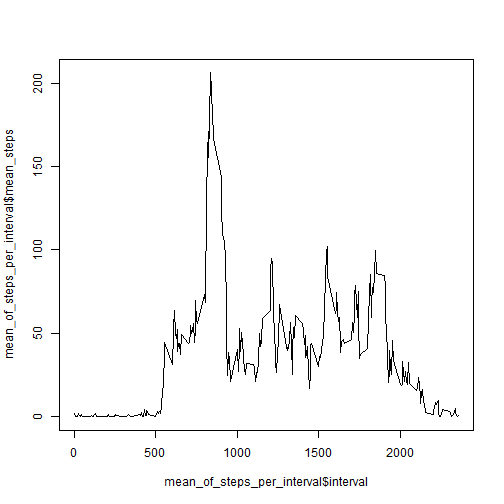
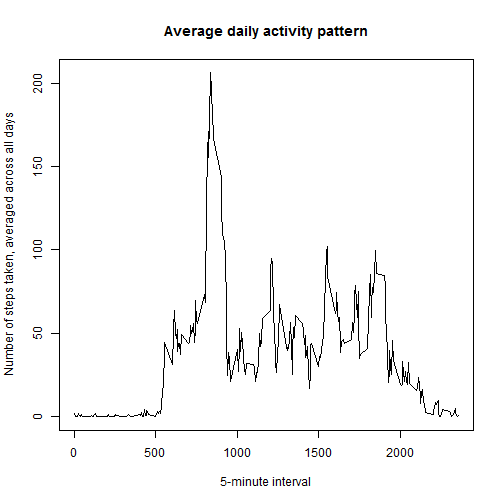
Which 5-minute interval, on average across all the days in the dataset, contains the maximum number of steps?

Changed region(s): [[0.3274, 0.0298, 0.744, 0.0893], [0.0, 0.2083, 0.0298, 0.744], [0.3274, 0.9226, 0.744, 0.9821]]

diff --git a/PA1_template.html b/PA1_template.html
@@ -316,14 +316,19 @@ hist(sum_of_steps_per_day$sum_steps, main = &quot;Total number of steps taken ea
 
 <h2>What is the average daily activity pattern?</h2>
 
+<p>Let&#39;s look at a time series plot of the 5-minute interval and the average number of steps taken, averaged across all days:</p>
+
 <pre><code class="r">steps_per_interval &lt;- group_by(data, interval)
 mean_of_steps_per_interval &lt;- summarise(steps_per_interval, mean_steps = mean(steps, na.rm=TRUE))
-plot(mean_of_steps_per_interval$interval, mean_of_steps_per_interval$mean_steps, type=&quot;l&quot;)
+plot(mean_of_steps_per_interval$interval, mean_of_steps_per_interval$mean_steps, type=&quot;l&quot;, main = &quot;Average daily activity pattern&quot;, xlab = &quot;5-minute interval&quot;, ylab = &quot;Number of steps taken, averaged across all days&quot;)
 </code></pre>
 
[2 lines of base64/hex data omitted]
 
-<pre><code class="r">slice(mean_of_steps_per_interval, which.max(mean_of_steps_per_interval$mean_steps))
+<p>Now let&#39;s find which 5-minute interval, on average across all the days in the dataset, contains the maximum number of steps:</p>
+
+<pre><code class="r">max_interval &lt;- slice(mean_of_steps_per_interval, which.max(mean_of_steps_per_interval$mean_steps))
+max_interval
 </code></pre>
 
 <pre><code>## Source: local data frame [1 x 2]
@@ -331,6 +336,8 @@ plot(mean_of_steps_per_interval$interval, mean_of_steps_per_interval$mean_steps,
 ##   interval mean_steps
 ## 1      835   206.1698
 </code></pre>
+
+<p>So, interval #835 contains the maximum number of steps, on average across all the days in the dataset, and its value is 206.1698113.</p>
 
 <h2>Imputing missing values</h2>
 

diff --git a/PA1_template.md b/PA1_template.md
@@ -127,18 +127,21 @@ summarise(steps_per_day, mean_steps = mean(steps), median_steps = median(steps))
 
 ## What is the average daily activity pattern?
 
+Let's look at a time series plot of the 5-minute interval and the average number of steps taken, averaged across all days:
 
 ```r
 steps_per_interval <- group_by(data, interval)
 mean_of_steps_per_interval <- summarise(steps_per_interval, mean_steps = mean(steps, na.rm=TRUE))
-plot(mean_of_steps_per_interval$interval, mean_of_steps_per_interval$mean_steps, type="l")
+plot(mean_of_steps_per_interval$interval, mean_of_steps_per_interval$mean_steps, type="l", main = "Average daily activity pattern", xlab = "5-minute interval", ylab = "Number of steps taken, averaged across all days")
 ```
 
 ![plot of chunk unnamed-chunk-5](figure/unnamed-chunk-5-1.png) 
 
+Now let's find which 5-minute interval, on average across all the days in the dataset, contains the maximum number of steps:
 
 ```r
-slice(mean_of_steps_per_interval, which.max(mean_of_steps_per_interval$mean_steps))
+max_interval <- slice(mean_of_steps_per_interval, which.max(mean_of_steps_per_interval$mean_steps))
+max_interval
 ```
 
 ```
@@ -147,6 +150,7 @@ slice(mean_of_steps_per_interval, which.max(mean_of_steps_per_interval$mean_step
 ##   interval mean_steps
 ## 1      835   206.1698
 ```
+So, interval #835 contains the maximum number of steps, on average across all the days in the dataset, and its value is 206.1698113.
 
 ## Imputing missing values
 
